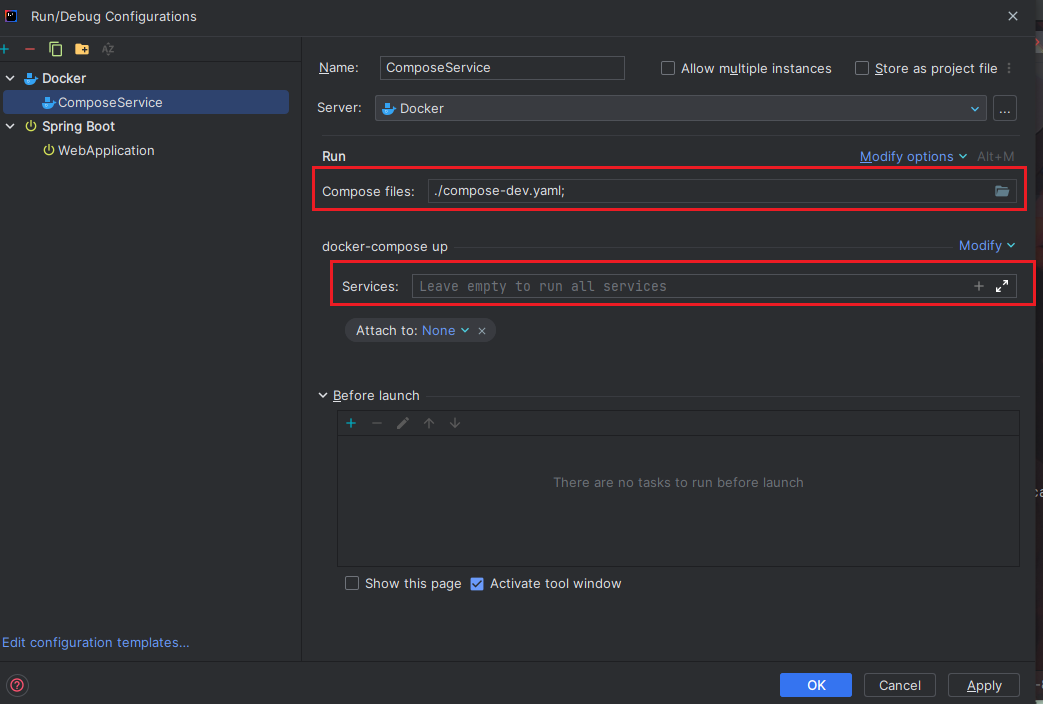
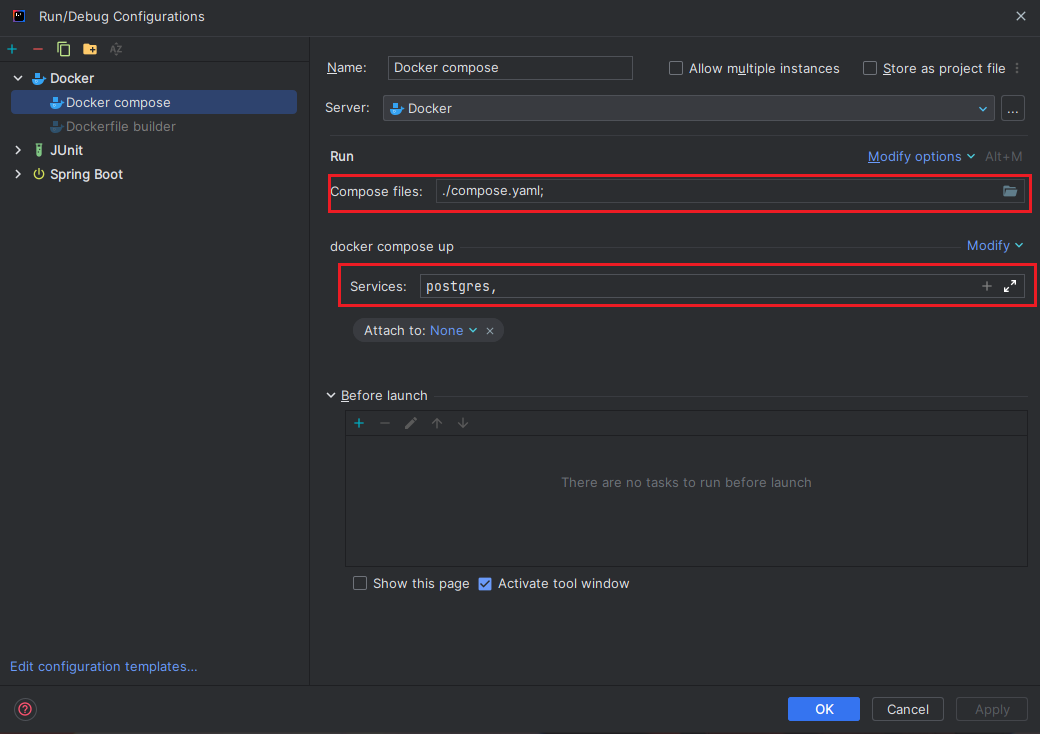
chore(be): modify docker

diff --git a/web/README.md b/web/README.md
@@ -12,7 +12,8 @@
 2. [Getting Started](#getting-started)
     * [Prerequisites](#prerequisites)
     * [Installation](#installation)
-    * [Run for development](#run-for-development)
+        * [Configuration](#configuration)
+        * [Run with docker compose](#run-with-docker-compose)
         * [Run on IntelliJ IDEA (2023.1.1)](#run-on-intellij-idea-202311)
 
 ## About The Application
@@ -30,6 +31,13 @@ This is a web application for Fluent English, you need to run the backend applic
 
 ### Installation
 
+#### Configuration
+1. Go to src/main/resources
+2. Copy `application.example.properties` to `application.properties`
+3. Configure the application properties
+
+#### Run with docker compose
+
 1. Clone the repo
    ```sh
    git clone https://github.com/Sang-Tan/Fluent-English
@@ -37,12 +45,13 @@ This is a web application for Fluent English, you need to run the backend applic
 2. Open `Fluent-English/web` directory
 3. Run docker compose
    ```sh
+   docker-compose build
+    ```
+   ```sh
    docker-compose up
    ```
 4. The application will be available at `http://localhost:8080`,
    you can change the port in `compose.yml` file
-
-### Run for development
 
 #### Run on IntelliJ IDEA (2023.1.1)
 
@@ -53,22 +62,19 @@ This is a web application for Fluent English, you need to run the backend applic
 
 ![Edit Configurations](images/run/intellij/select-docker.png)
 
-5. In `Dockerfile` select `Dockerfile-dev.yml` file in
-   project root directory
-6. Fill `Run options` with `--rm -p 8080:8080 --network fluent-english-network-dev` 
+5. In `Dockerfile` select `Dockerfile-jdk` file in project root directory
+6. Fill `Run options` with `--rm -p 8080:8080 --network fluent-english-network` 
+7. Name the image `fluent-english-jdk:latest` or anything you want
 
 ![Compose target](images/run/intellij/select-docker-target.png)
 
-7. Click `Next`, wait for the image to
-   be created then click `Next`, then click `Create`. Name the
-   target `fluent-english:development` or anything you want
 8. Select main class
 
 ![Main class](images/run/intellij/select-main-class.png)
 
 9. Select `+` button and select `Docker-compose`
-10. Select `Compose files` as `compose-dev.yml` file in root directory
-11. In `Sevices` select all services or leave empty (IntelliJ IDEA will select all services by default)
+10. Select `Compose files` as `compose.yml` file in root directory
+11. In `Sevices` select all services except `appserver`
 12. Click `OK`
 13. Return to spring boot configuration and click `modify options` -> `Add before launch` -> `Run another configuration`
 14. Select the configuration created in step 9-12
